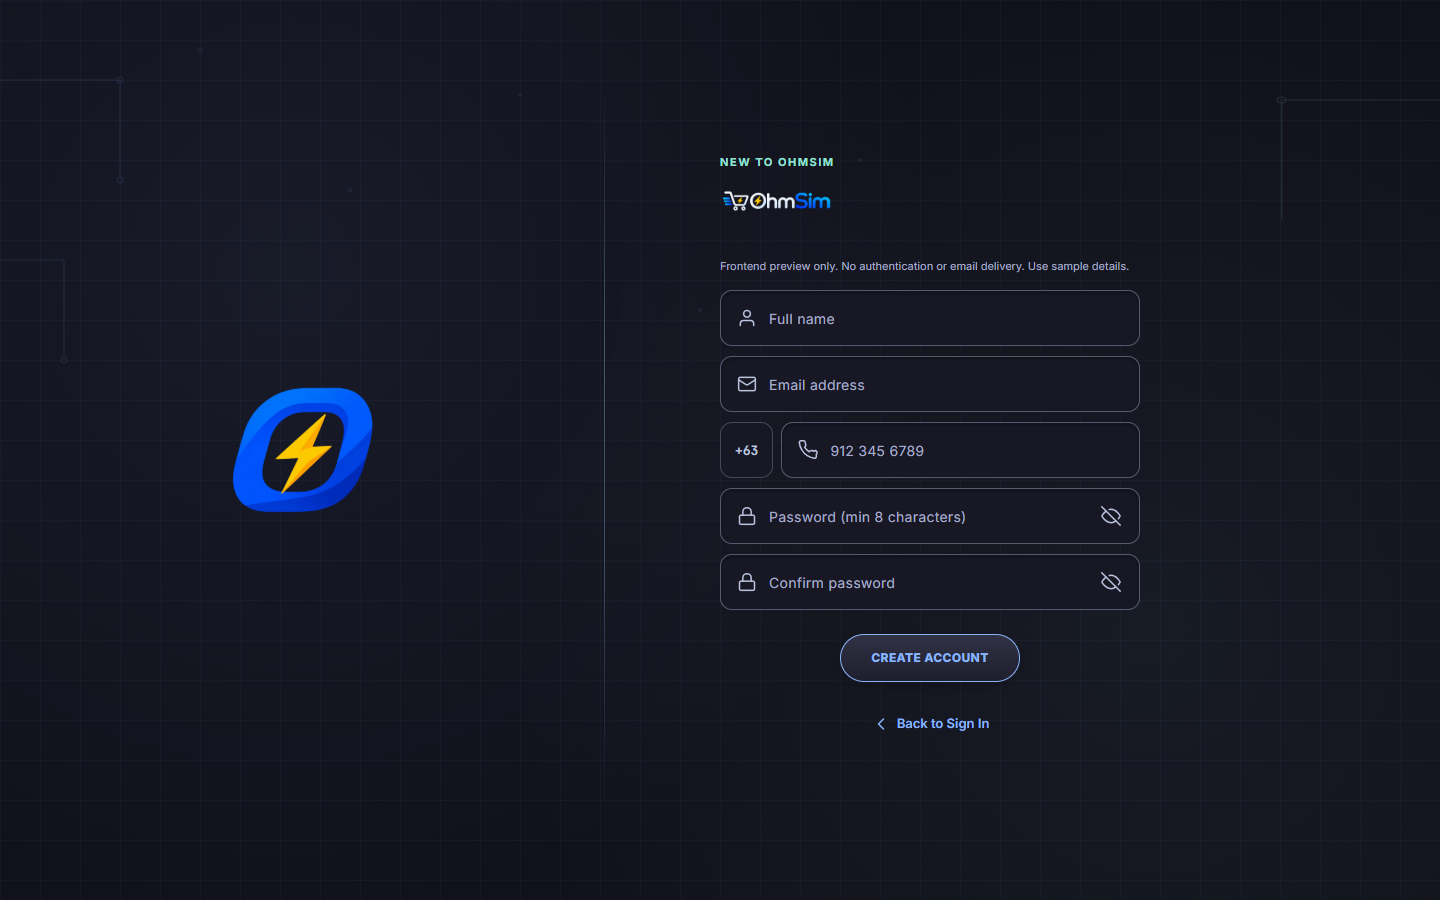
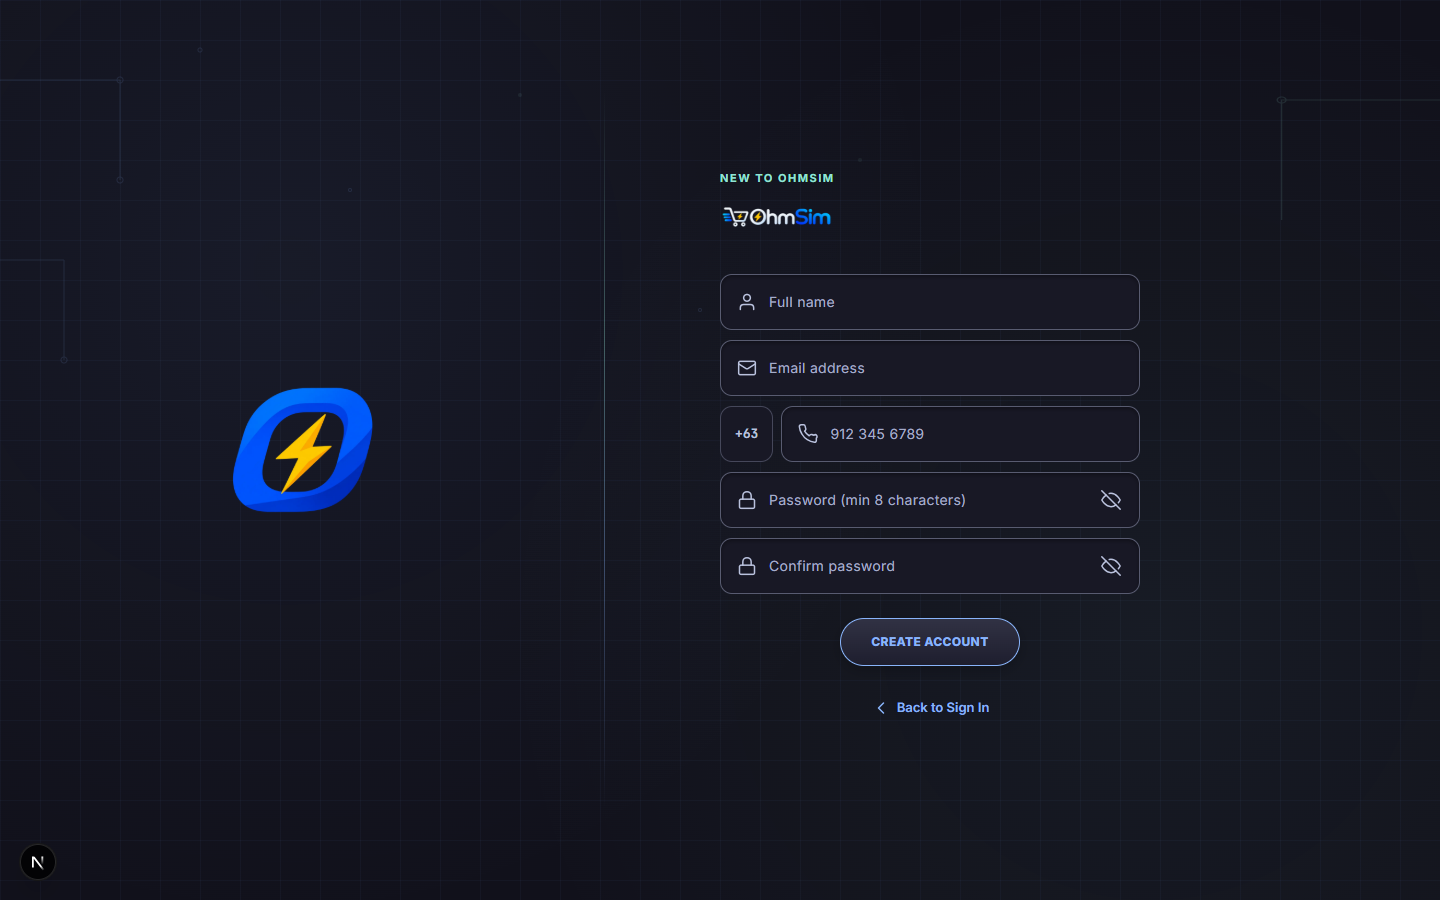
fix: remove developer notice from auth forms

diff --git a/app/login/auth-experience.tsx b/app/login/auth-experience.tsx
@@ -129,7 +129,6 @@ export function AuthExperience() {
             </Link>
             {view === "forgot" && <p className={styles.description}>Enter your email and we&apos;ll send you a reset link.</p>}
           </div>
-          <p className={styles.previewNote}>Frontend preview only. No authentication or email delivery. Use sample details.</p>
           {resetEmail ? <Surface className={styles.resetSuccess} role="status">
             <span className={styles.resetIcon}><AuthIcon name="check" /></span>
             <p><strong>Reset link sent!</strong></p>

diff --git a/docs/design/auth/AUTH_IMPLEMENTATION_REVIEW.md b/docs/design/auth/AUTH_IMPLEMENTATION_REVIEW.md
@@ -47,7 +47,7 @@
 
 - ACCOUNT RECOVERY, source description, email, SEND RESET LINK, and Back to Sign In.
 - Valid submission displays the reference "Reset link sent!" and "Check your inbox at <email>" presentation, together with the explicit notice "Prototype state only — no email was sent."
-- All views visibly identify the frontend preview and ask for sample details.
+- Per PM review, the developer-only introductory preview/sample-details notice is removed from all three views. The approved headings, wordmark, fields, and recovery instructions remain without replacement filler. Submission feedback still accurately discloses the deferred backend behavior.
 
 ### Interaction and accessibility
 
@@ -99,6 +99,10 @@ Review images are under `screenshots/`. The existing Next.js warning about an un
 ### No-autofill follow-up
 
 After the PM reported saved-browser credentials appearing, removed personal-data autocomplete hints and the current-password hint. Lint, TypeScript, whitespace checks, and all 66 Auth browser assertions passed against the development preview on port 3000. The additional assertions verify initially empty inputs and the new autocomplete attributes; a clean test profile cannot verify every saved-password manager's behavior.
+
+### Introductory copy follow-up
+
+Removed the developer-only preview notice per PM request, preserving the approved form copy without filler. Lint, TypeScript, whitespace checks, and all 84 browser assertions passed on port 3000, including absence of the notice in every view at six viewport widths. Review screenshots were refreshed from this development preview.
 
 ## Explicit deferrals and limitations
 
